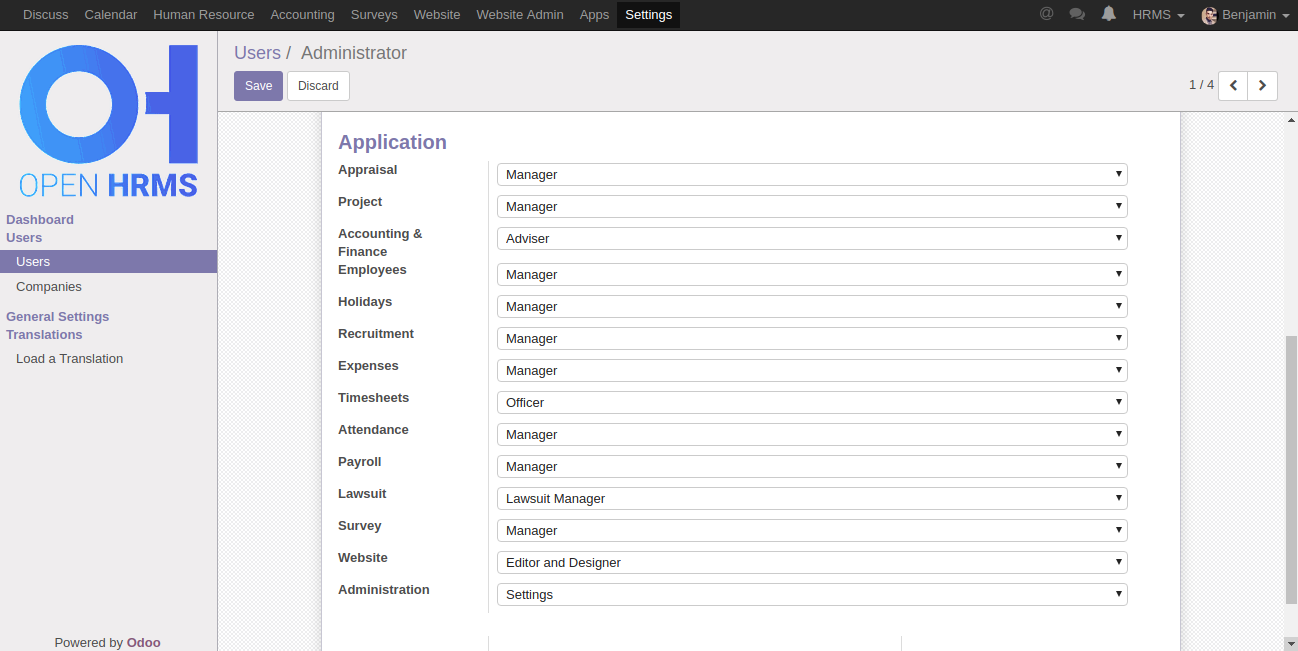
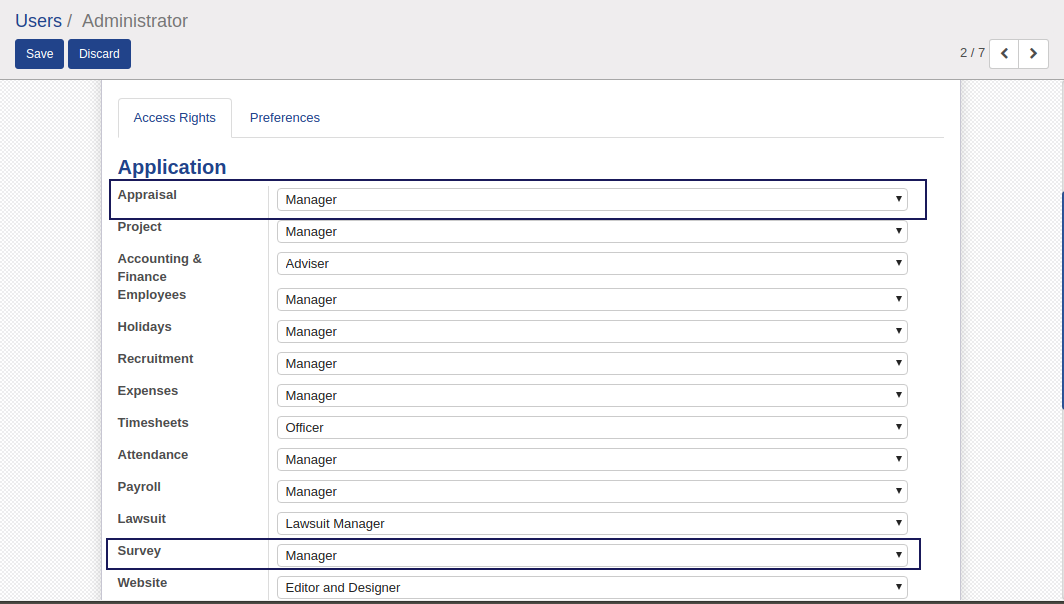
[UTD] Index Changed

Changed region(s): [[0.0, 0.0, 1.0, 1.0], [0.093, 0.745, 0.1861, 0.7748], [0.093, 0.6854, 0.1861, 0.7152]]

diff --git a/oh_appraisal/static/description/index.html b/oh_appraisal/static/description/index.html
@@ -106,7 +106,7 @@
         </div>
         <div class="oe_span6">
             <div class="oe_demo oe_picture oe_screenshot">
-                <img src="appraisal.png">
+                <img src="settings.png">
             </div>
         </div>
     </div>

diff --git a/oh_appraisal/__manifest__.py b/oh_appraisal/__manifest__.py
@@ -1,6 +1,6 @@
 # -*- coding: utf-8 -*-
 ###################################################################################
-#    A part of OpenHrms Project <https://www.openhrms.com>
+#    A part of Open Hrms Project <https://www.openhrms.com>
 #
 #    Cybrosys Technologies Pvt. Ltd.
 #    Copyright (C) 2018-TODAY Cybrosys Technologies (<https://www.cybrosys.com>).
